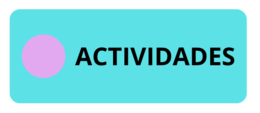
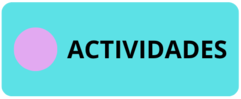
botones

diff --git a/src/GUI/Docente/DashboardDocentePanel.java b/src/GUI/Docente/DashboardDocentePanel.java
@@ -42,7 +42,7 @@ public class DashboardDocentePanel extends javax.swing.JPanel {
         jButton6.setContentAreaFilled(false);
         jButton6.setFocusPainted(false);
         jButton6.setRolloverIcon(new javax.swing.ImageIcon(getClass().getResource("/GUI/Estudiante/Boton EJERCICIOS_hover.png"))); // NOI18N
-        add(jButton6, new org.netbeans.lib.awtextra.AbsoluteConstraints(520, 310, 270, 100));
+        add(jButton6, new org.netbeans.lib.awtextra.AbsoluteConstraints(520, 300, 270, 100));
 
         jButton5.setIcon(new javax.swing.ImageIcon(getClass().getResource("/GUI/Docente/Boton volver (2).png"))); // NOI18N
         jButton5.setBorderPainted(false);
@@ -57,38 +57,38 @@ public class DashboardDocentePanel extends javax.swing.JPanel {
         jButton4.setRolloverIcon(new javax.swing.ImageIcon(getClass().getResource("/GUI/Docente/Boton volver_hover.png"))); // NOI18N
         add(jButton4, new org.netbeans.lib.awtextra.AbsoluteConstraints(20, 460, -1, 70));
 
-        jButton3.setIcon(new javax.swing.ImageIcon(getClass().getResource("/GUI/Estudiante/Boton CALIFICACIONES.png"))); // NOI18N
+        jButton3.setIcon(new javax.swing.ImageIcon(getClass().getResource("/GUI/Docente/Boton CALIFICACIONES.png"))); // NOI18N
         jButton3.setBorderPainted(false);
         jButton3.setContentAreaFilled(false);
         jButton3.setFocusPainted(false);
-        jButton3.setRolloverIcon(new javax.swing.ImageIcon(getClass().getResource("/GUI/Estudiante/Boton CALIFICACIONES_hover.png"))); // NOI18N
+        jButton3.setRolloverIcon(new javax.swing.ImageIcon(getClass().getResource("/GUI/Docente/Boton CALIFICACIONES_hover.png"))); // NOI18N
         jButton3.addActionListener(new java.awt.event.ActionListener() {
             public void actionPerformed(java.awt.event.ActionEvent evt) {
                 jButton3ActionPerformed(evt);
             }
         });
-        add(jButton3, new org.netbeans.lib.awtextra.AbsoluteConstraints(520, 170, 270, 100));
+        add(jButton3, new org.netbeans.lib.awtextra.AbsoluteConstraints(520, 170, -1, 100));
 
-        jButton2.setIcon(new javax.swing.ImageIcon(getClass().getResource("/GUI/Estudiante/Boton ACTIVIDADES.png"))); // NOI18N
+        jButton2.setIcon(new javax.swing.ImageIcon(getClass().getResource("/GUI/Docente/Boton ACTIVIDADES.png"))); // NOI18N
         jButton2.setBorder(null);
         jButton2.setBorderPainted(false);
         jButton2.setContentAreaFilled(false);
         jButton2.setFocusPainted(false);
-        jButton2.setRolloverIcon(new javax.swing.ImageIcon(getClass().getResource("/GUI/Estudiante/Boton ACTIVIDADES_hover.png"))); // NOI18N
-        add(jButton2, new org.netbeans.lib.awtextra.AbsoluteConstraints(200, 300, 270, 110));
+        jButton2.setRolloverIcon(new javax.swing.ImageIcon(getClass().getResource("/GUI/Docente/Boton ACTIVIDADES_hover.png"))); // NOI18N
+        add(jButton2, new org.netbeans.lib.awtextra.AbsoluteConstraints(220, 300, -1, 100));
 
-        jButton1.setIcon(new javax.swing.ImageIcon(getClass().getResource("/GUI/Estudiante/Boton AULAS.png"))); // NOI18N
+        jButton1.setIcon(new javax.swing.ImageIcon(getClass().getResource("/GUI/Docente/Boton AULAS.png"))); // NOI18N
         jButton1.setBorder(null);
         jButton1.setBorderPainted(false);
         jButton1.setContentAreaFilled(false);
         jButton1.setFocusPainted(false);
-        jButton1.setRolloverIcon(new javax.swing.ImageIcon(getClass().getResource("/GUI/Estudiante/Boton AULAS_hover.png"))); // NOI18N
+        jButton1.setRolloverIcon(new javax.swing.ImageIcon(getClass().getResource("/GUI/Docente/Boton AULAS_hover.png"))); // NOI18N
         jButton1.addActionListener(new java.awt.event.ActionListener() {
             public void actionPerformed(java.awt.event.ActionEvent evt) {
                 jButton1ActionPerformed(evt);
             }
         });
-        add(jButton1, new org.netbeans.lib.awtextra.AbsoluteConstraints(210, 170, 250, 100));
+        add(jButton1, new org.netbeans.lib.awtextra.AbsoluteConstraints(220, 170, 260, 100));
 
         jLabel2.setFont(new java.awt.Font("Myanmar Text", 1, 48)); // NOI18N
         jLabel2.setForeground(new java.awt.Color(255, 255, 255));
